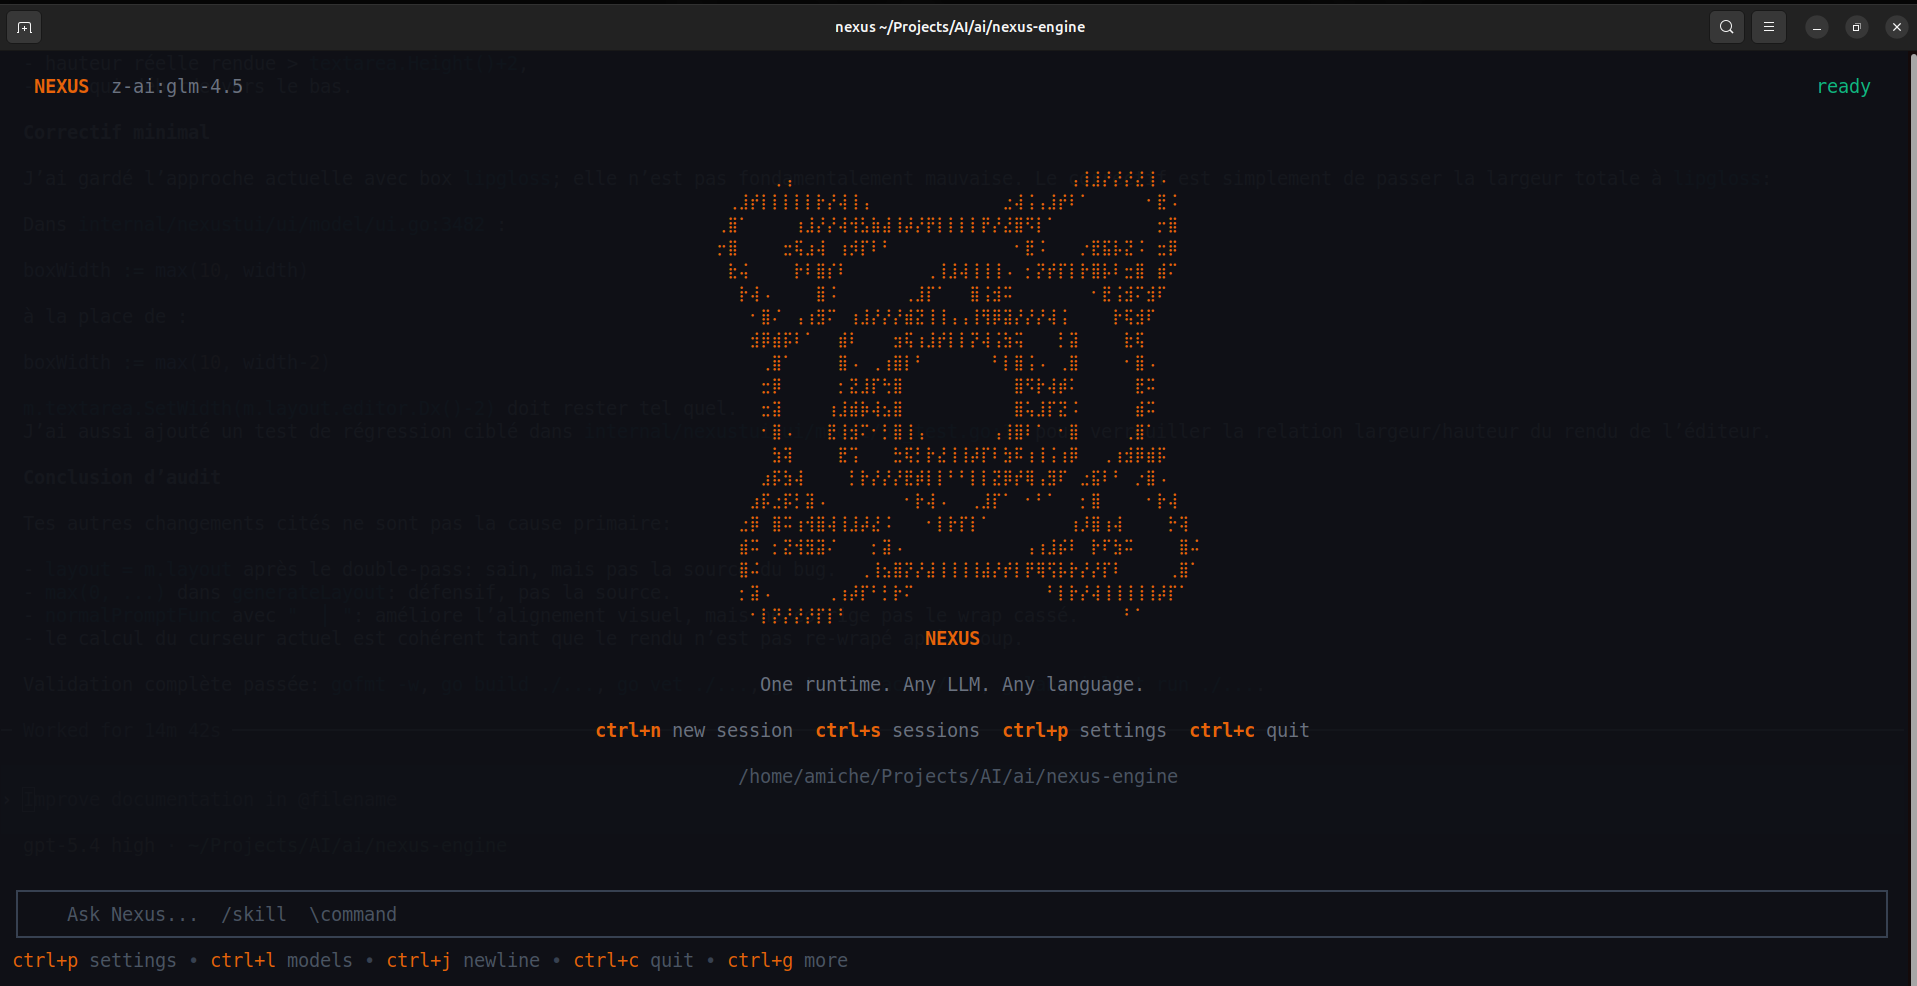
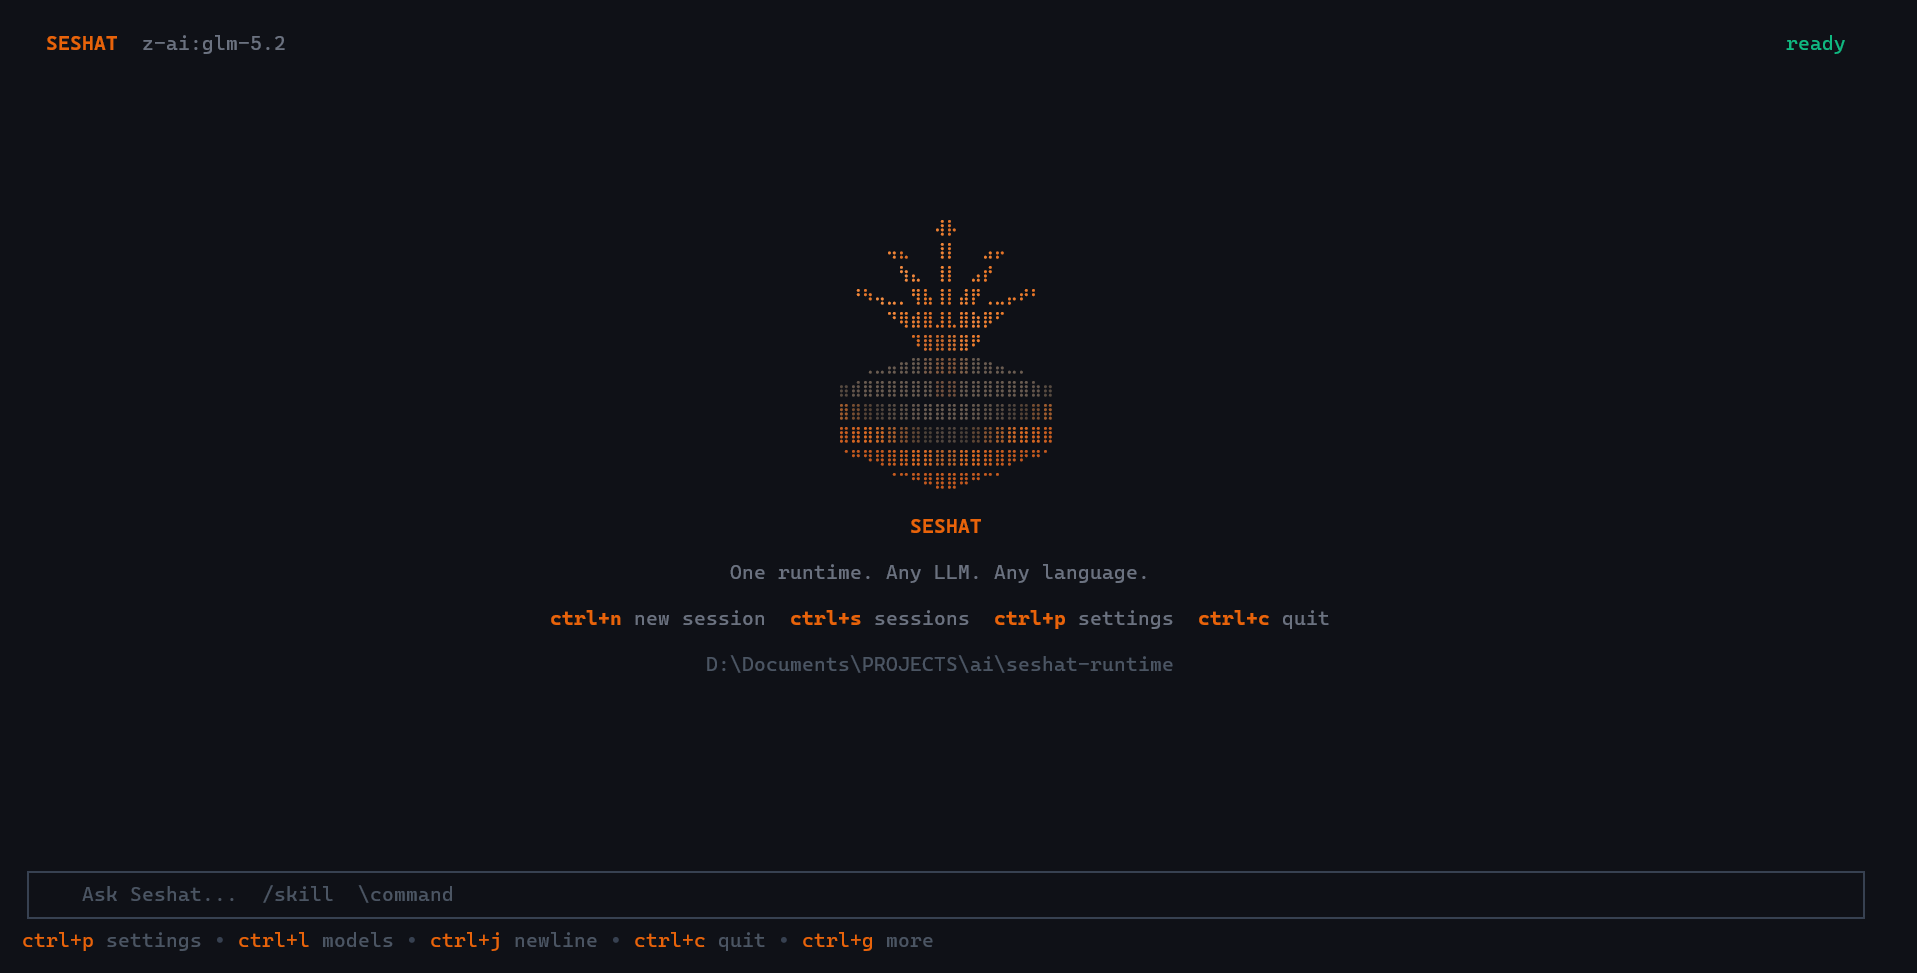
docs(readme): replace the terminal screenshots with current ones
The old captures still showed the previous logo and the Nexus name. Eight new
ones replace them: the welcome screen, the settings, the provider families,
the model selection, the clarifying questions, the web research, the plan
review and an agent at work. The unused goal_ui capture is removed too.

diff --git a/README.md b/README.md
@@ -102,28 +102,38 @@ If you want a ready-to-use product built on this engine, see [SeshatOS](https://
       <br><sub><b>Welcome</b> — up and running in 10 seconds</sub>
     </td>
     <td align="center" width="50%">
-      <img src="docs/captures/commands_pannel.png" alt="Settings panel" width="100%">
-      <br><sub><b>Settings panel</b> — every shortcut, one keystroke away (<code>ctrl+p</code>)</sub>
+      <img src="docs/captures/settings.png" alt="Settings panel" width="100%">
+      <br><sub><b>Settings</b> — every section, one keystroke away (<code>ctrl+p</code>)</sub>
     </td>
   </tr>
   <tr>
     <td align="center" width="50%">
-      <img src="docs/captures/model_selction.png" alt="Model selection" width="100%">
-      <br><sub><b>Model selection</b> — switch across 20+ models in 2 keystrokes</sub>
+      <img src="docs/captures/providers.png" alt="Provider families" width="100%">
+      <br><sub><b>Providers</b> — language models, image, speech and web search</sub>
     </td>
     <td align="center" width="50%">
-      <img src="docs/captures/provider_config.png" alt="Provider configuration" width="100%">
-      <br><sub><b>Provider config</b> — API keys encrypted, scoped per provider</sub>
+      <img src="docs/captures/models.png" alt="Model selection" width="100%">
+      <br><sub><b>Model selection</b> — switch models in 2 keystrokes (<code>ctrl+l</code>)</sub>
     </td>
   </tr>
   <tr>
     <td align="center" width="50%">
-      <img src="docs/captures/working1.png" alt="Agent working" width="100%">
-      <br><sub><b>Agent at work</b> — full reasoning trace, thinking blocks + tool calls</sub>
+      <img src="docs/captures/questions.png" alt="Agent asking clarifying questions" width="100%">
+      <br><sub><b>Asks before it acts</b> — clarifying questions with options, then a plan</sub>
     </td>
     <td align="center" width="50%">
-      <img src="docs/captures/working2.png" alt="Agent completing task" width="100%">
-      <br><sub><b>Streaming results</b> — streamed responses with markdown + tool timings</sub>
+      <img src="docs/captures/web-research.png" alt="Agent fetching web pages" width="100%">
+      <br><sub><b>Checks the source</b> — fetches pages and shows what it read</sub>
+    </td>
+  </tr>
+  <tr>
+    <td align="center" width="50%">
+      <img src="docs/captures/plan-review.png" alt="Plan review" width="100%">
+      <br><sub><b>Plan review</b> — read, comment and approve the plan before work starts</sub>
+    </td>
+    <td align="center" width="50%">
+      <img src="docs/captures/agent-working.png" alt="Agent working with sub-agent tasks" width="100%">
+      <br><sub><b>Agent at work</b> — task list, sub-agents and streamed results</sub>
     </td>
   </tr>
 </table>
